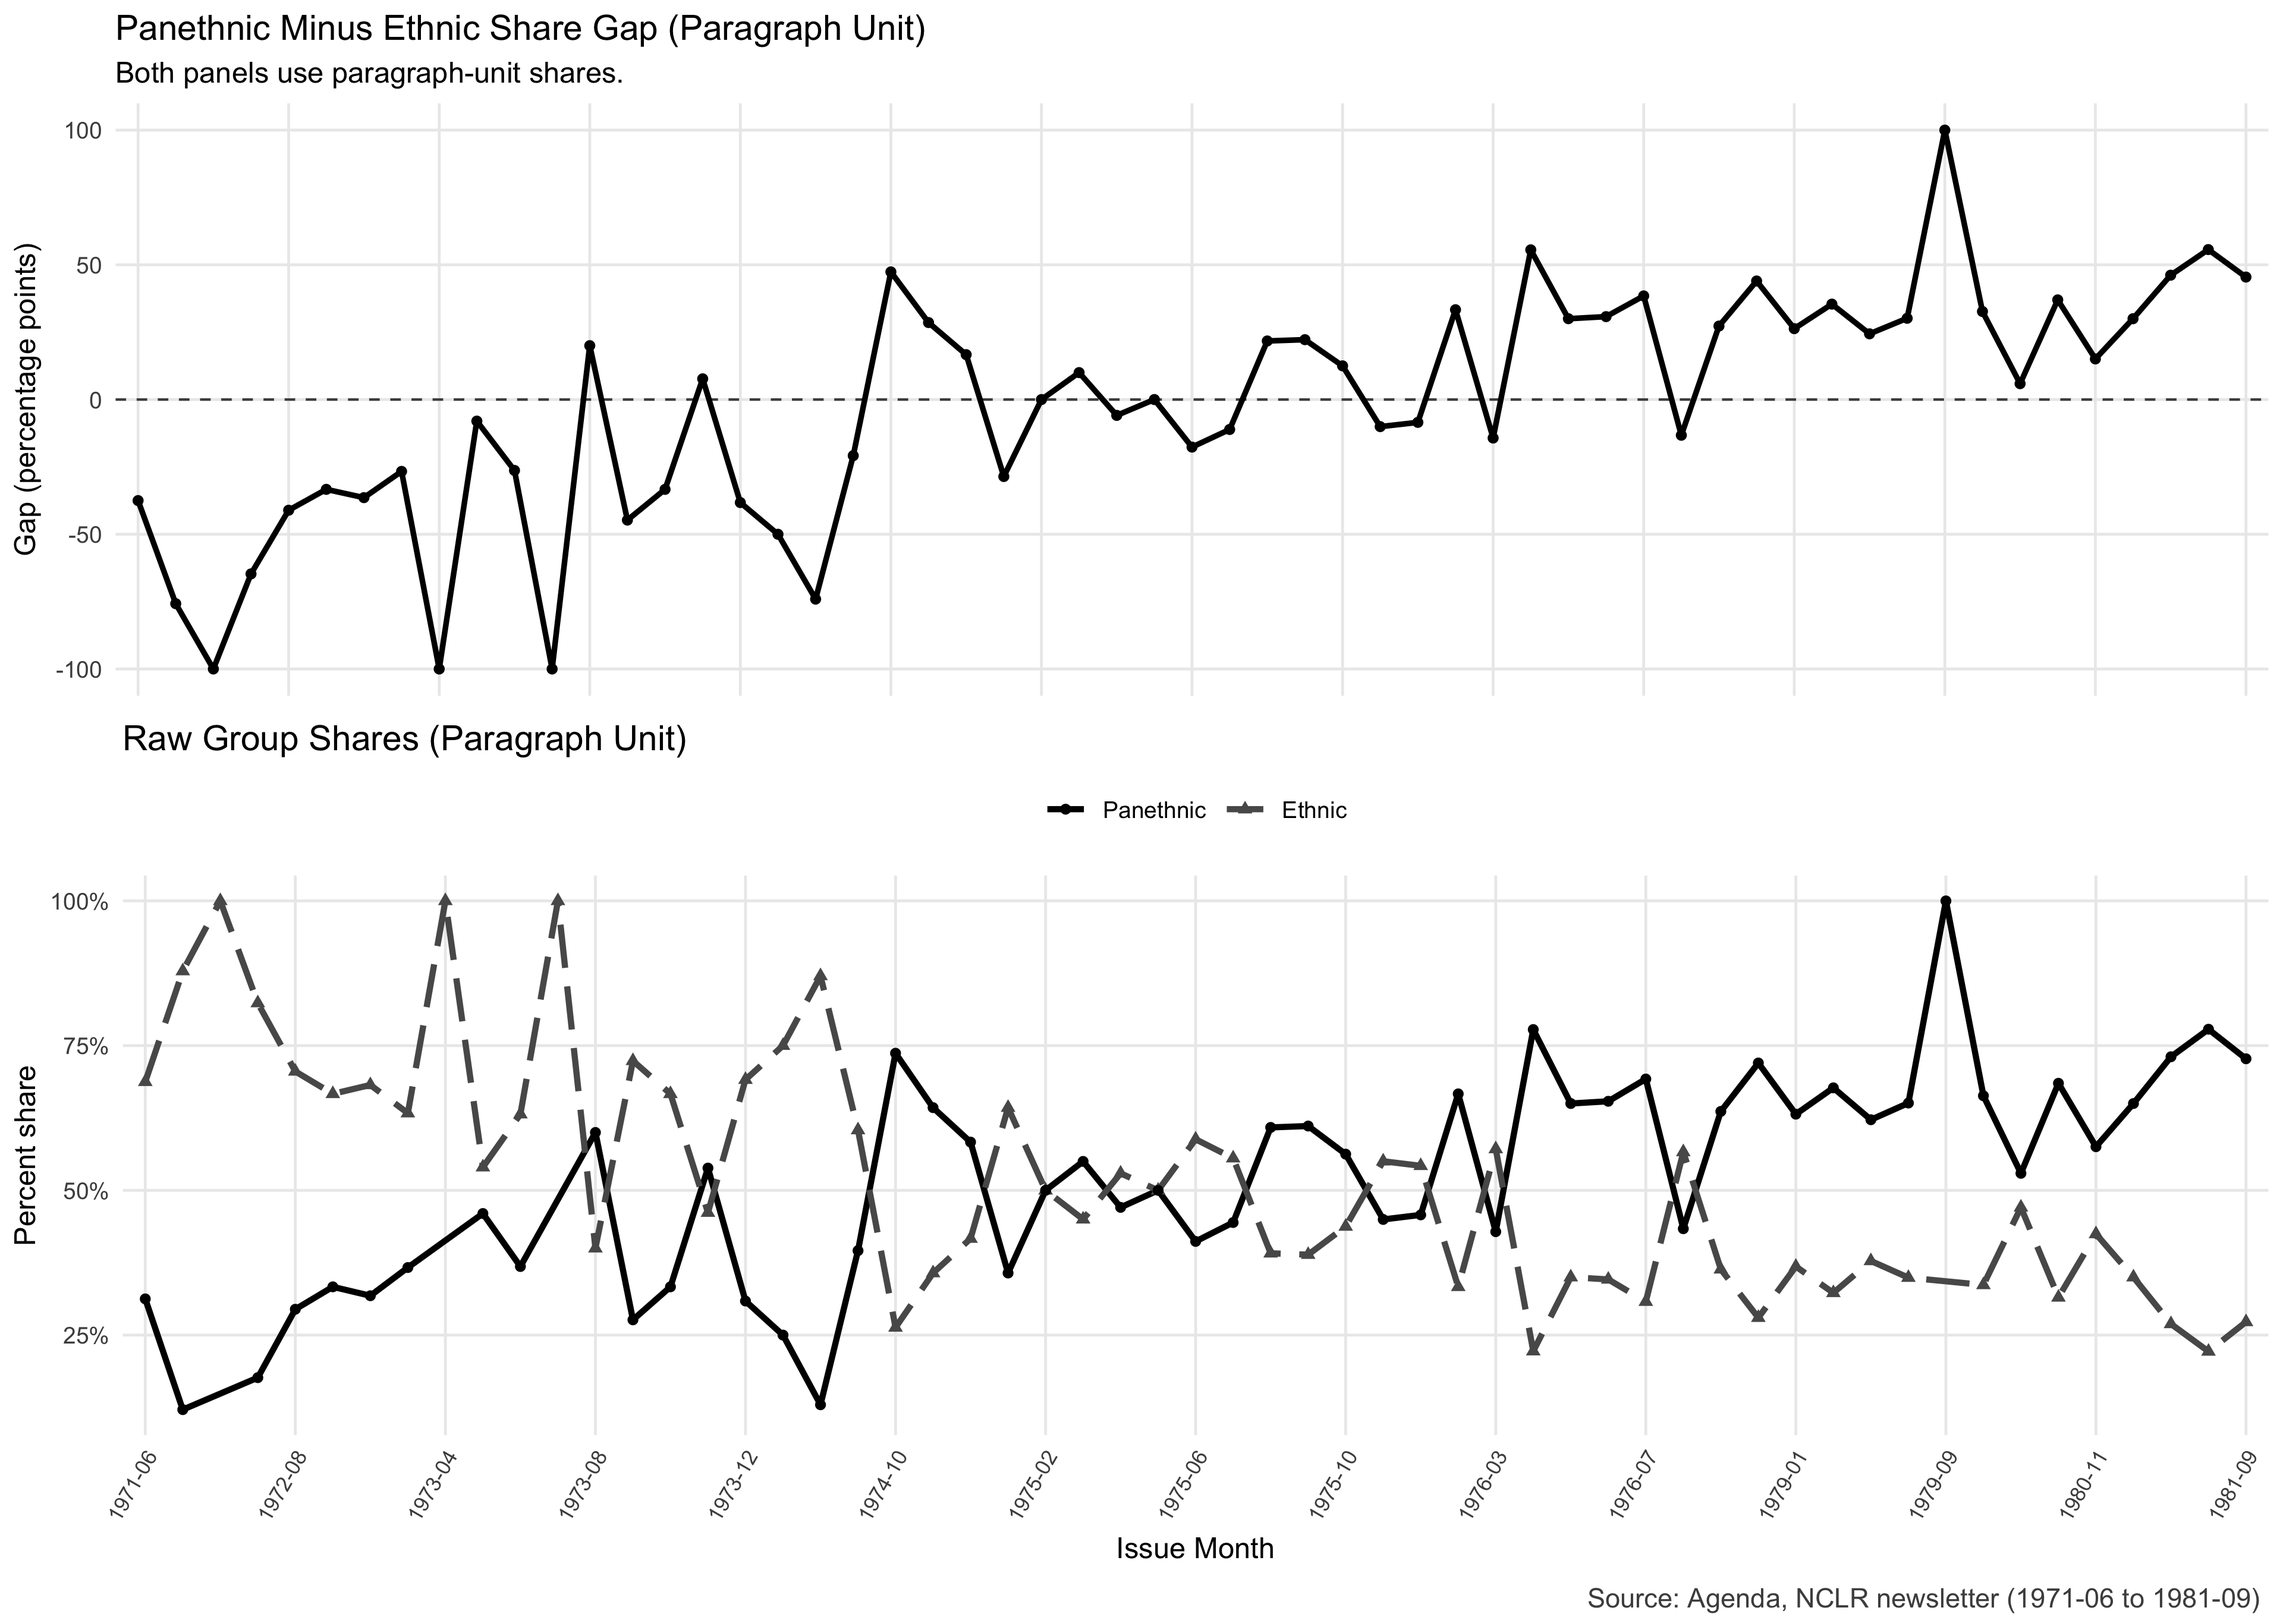
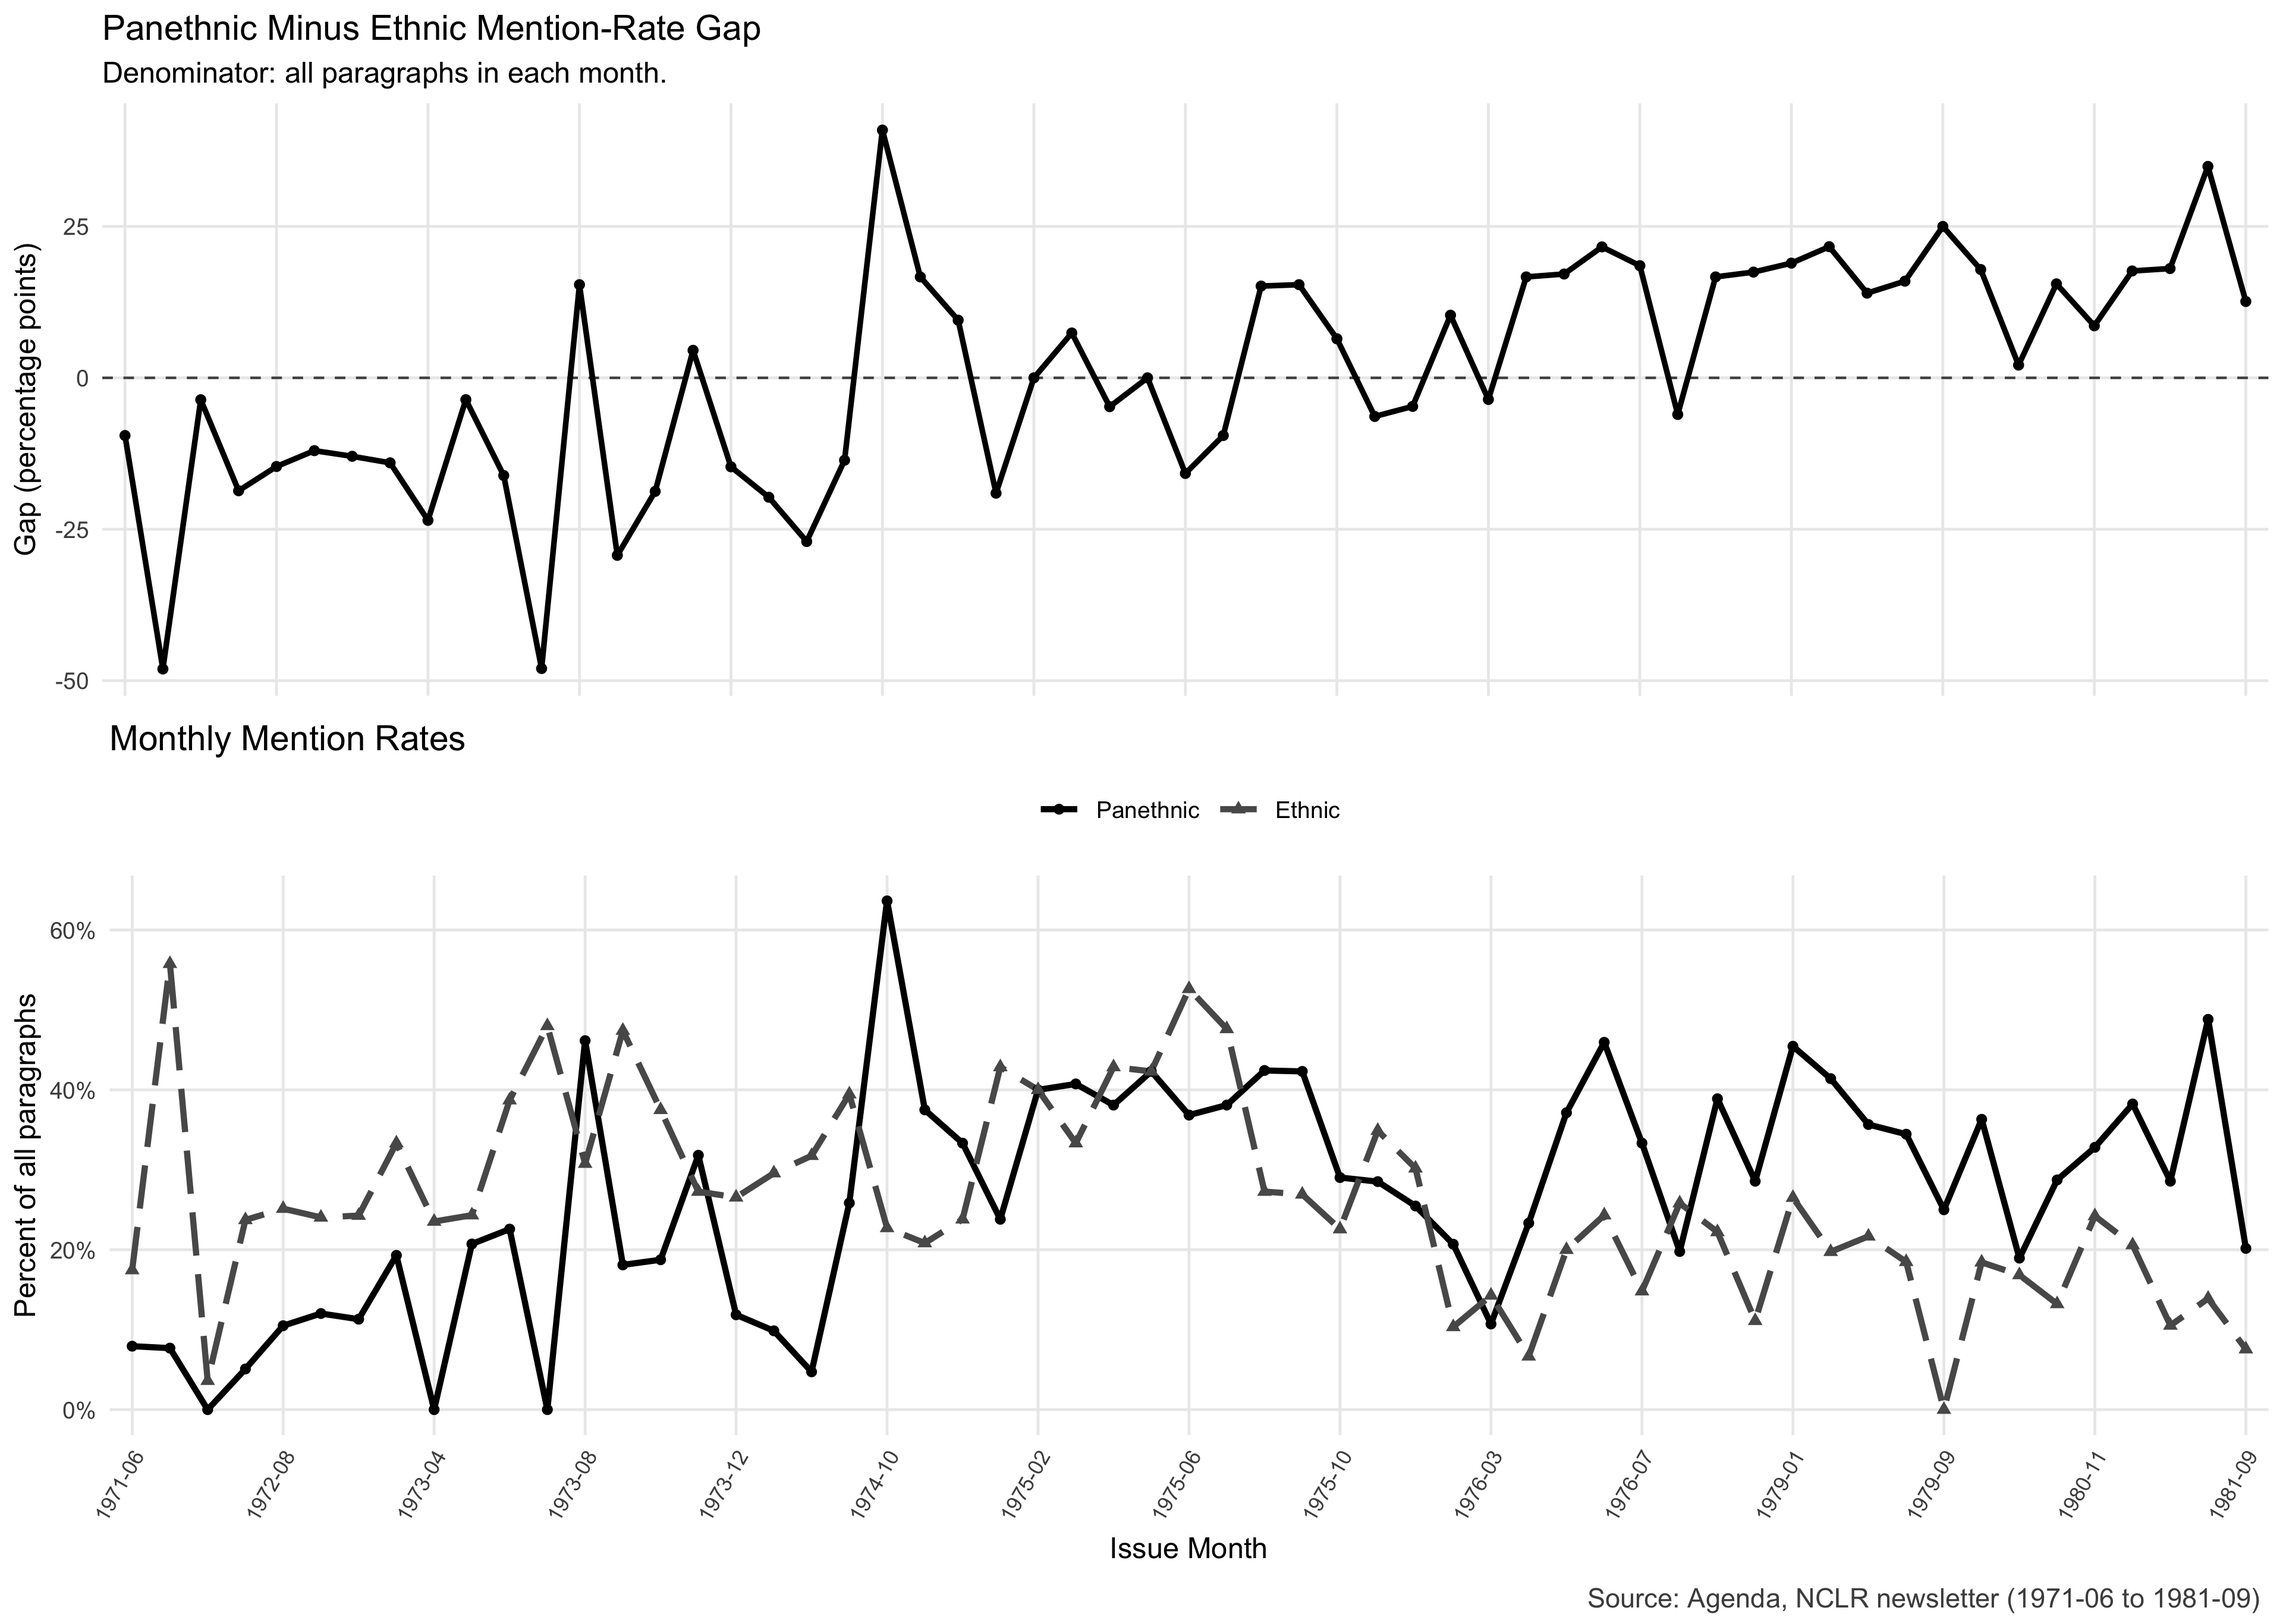
Revise group-share figure to monthly mention rates and document regex labels

diff --git a/README.md b/README.md
@@ -76,9 +76,10 @@ Output:
 - `outputs/fig_span_group_share_over_time_gap_panel.png`
 
 Notes:
-- Top panel: panethnic minus ethnic gap (percentage points).
-- Bottom panel: raw percent shares.
-- Both panels use paragraph unit.
+- Top panel: panethnic minus ethnic mention-rate gap (percentage points).
+- Bottom panel: monthly mention rates.
+- Denominator for both rates is all paragraphs in each month.
+- Panethnic and ethnic rates do not need to sum to 100% because a paragraph can match both labels.
 
 ## 8) Figure B: Theme Trend Facets (Paragraph Unit)
 
@@ -93,3 +94,17 @@ Notes:
 - Grayscale panethnic vs ethnic lines.
 - Gray band indicates the gap between lines.
 - `--normalize=max100` normalizes each group line within each facet for shape comparison.
+
+## Regex Definitions For Identity Labels
+
+Defined in `src/build_paragraph_panel.py`:
+
+- Panethnic regex:
+  - `\b(hispanic(?:s)?|latino(?:s|a|as)?|spanish[- ]speaking|spanish[- ]surname)\b`
+- Ethnic regex:
+  - `\b(chicano(?:s|a|as)?|mexican[- ]american(?:s)?|puerto rican(?:s)?|cuban[- ]american(?:s)?|dominican(?:s)?|salvadoran(?:s)?|guatemalan(?:s)?|nicaraguan(?:s)?)\b`
+
+Label behavior:
+- `has_panethnic_label=1` when Panethnic regex matches.
+- `has_ethnic_label=1` when Ethnic regex matches.
+- Labels are non-exclusive (a paragraph may match both).
